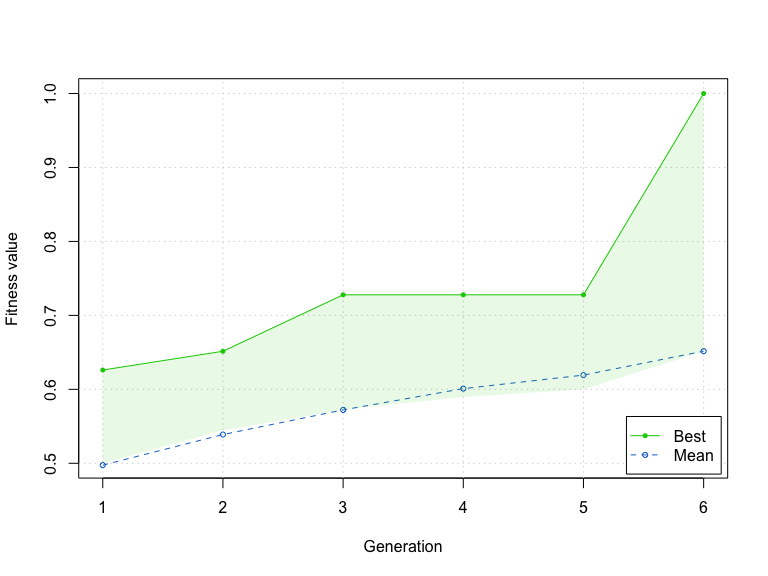
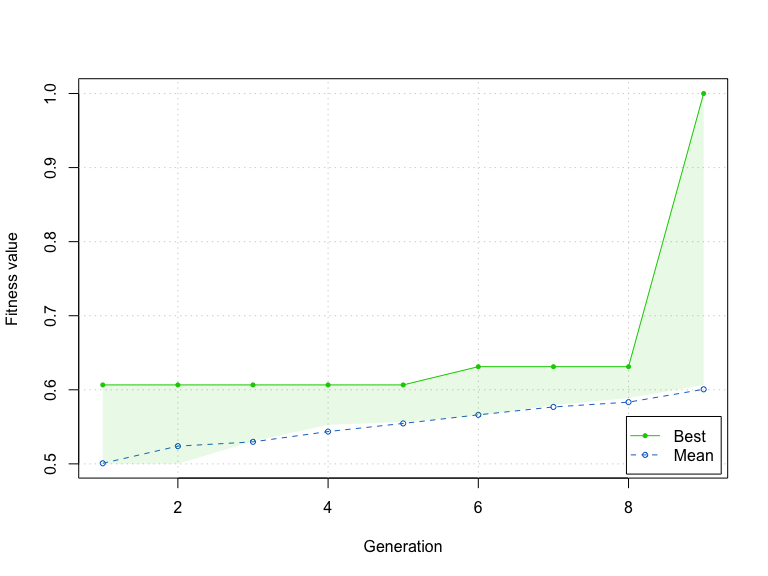
Updated readme with John J. Nay, Jonathan M. Gilligan (2015) "Data-Driven Dynamic Decision Models," in L. Yilmaz et al.   (eds.), Proc. 2015 Winter Simulation Conf.

diff --git a/README.md b/README.md
@@ -29,7 +29,7 @@ library(datafsm)
 
 If you use this package, cite:
 
-> "Nay, J., Gilligan, J. 2015. Data-Driven Dynamic Decision Models. Proceedings of the 2015 Winter Simulation Conference"
+> John J. Nay, Jonathan M. Gilligan (2015) "Data-Driven Dynamic Decision Models," in L. Yilmaz et al. (eds.), Proc. 2015 Winter Simulation Conf.
 
 Fake Data Example
 =================
@@ -49,17 +49,17 @@ Here are the first eleven rows of this fake data:
 
 |  period|  outcome|  my.decision1|  other.decision1|
 |-------:|--------:|-------------:|----------------:|
-|       1|        1|             0|                0|
-|       2|        2|             1|                0|
+|       1|        1|             1|                1|
+|       2|        2|             0|                0|
 |       3|        1|             0|                0|
 |       4|        2|             1|                1|
-|       5|        1|             0|                0|
-|       6|        2|             0|                0|
-|       7|        1|             0|                1|
+|       5|        1|             1|                0|
+|       6|        2|             1|                0|
+|       7|        1|             1|                0|
 |       8|        2|             1|                0|
 |       9|        1|             0|                0|
-|      10|        2|             0|                1|
-|       1|        1|             0|                0|
+|      10|        2|             0|                0|
+|       1|        1|             0|                1|
 
 We can estimate a model with that data. `evolve_model` uses a genetic algorithm to estimate a finite-state machine (FSM) model, primarily for understanding and predicting decision-making. This is the main function of the `datafsm` package. It relies on the `GA` package for genetic algorithm optimization. We chose to use a GA because GAs perform well in rugged search spaces to solve integer optimization problems, are a natural complement to our binary representation of FSMs, and are easily parallelized.
 
@@ -102,7 +102,7 @@ summary(res)
 #> 
 #> Results: 
 #> 
-#> Iterations For This Run              = 6 
+#> Iterations For This Run              = 9 
 #> Training Data Fitness Function Value = 1 
 #> Test Data Fitness Function Value     = No test data provided. Provide some to get more accurate estimation of generalization power. 
 #> 
@@ -129,13 +129,13 @@ summary(res)
 #> 
 #> Variable Importance: 
 #> my.decision1FALSE:other.decision1FALSE 
-#>                                   95.1 
+#>                                   97.9 
 #>  my.decision1TRUE:other.decision1FALSE 
-#>                                  100.0 
+#>                                   99.4 
 #>  my.decision1FALSE:other.decision1TRUE 
-#>                                   96.1 
+#>                                  100.0 
 #>   my.decision1TRUE:other.decision1TRUE 
-#>                                   96.7
+#>                                   98.8
 plot(res, action_label = c("C", "D"))
 ```
 
